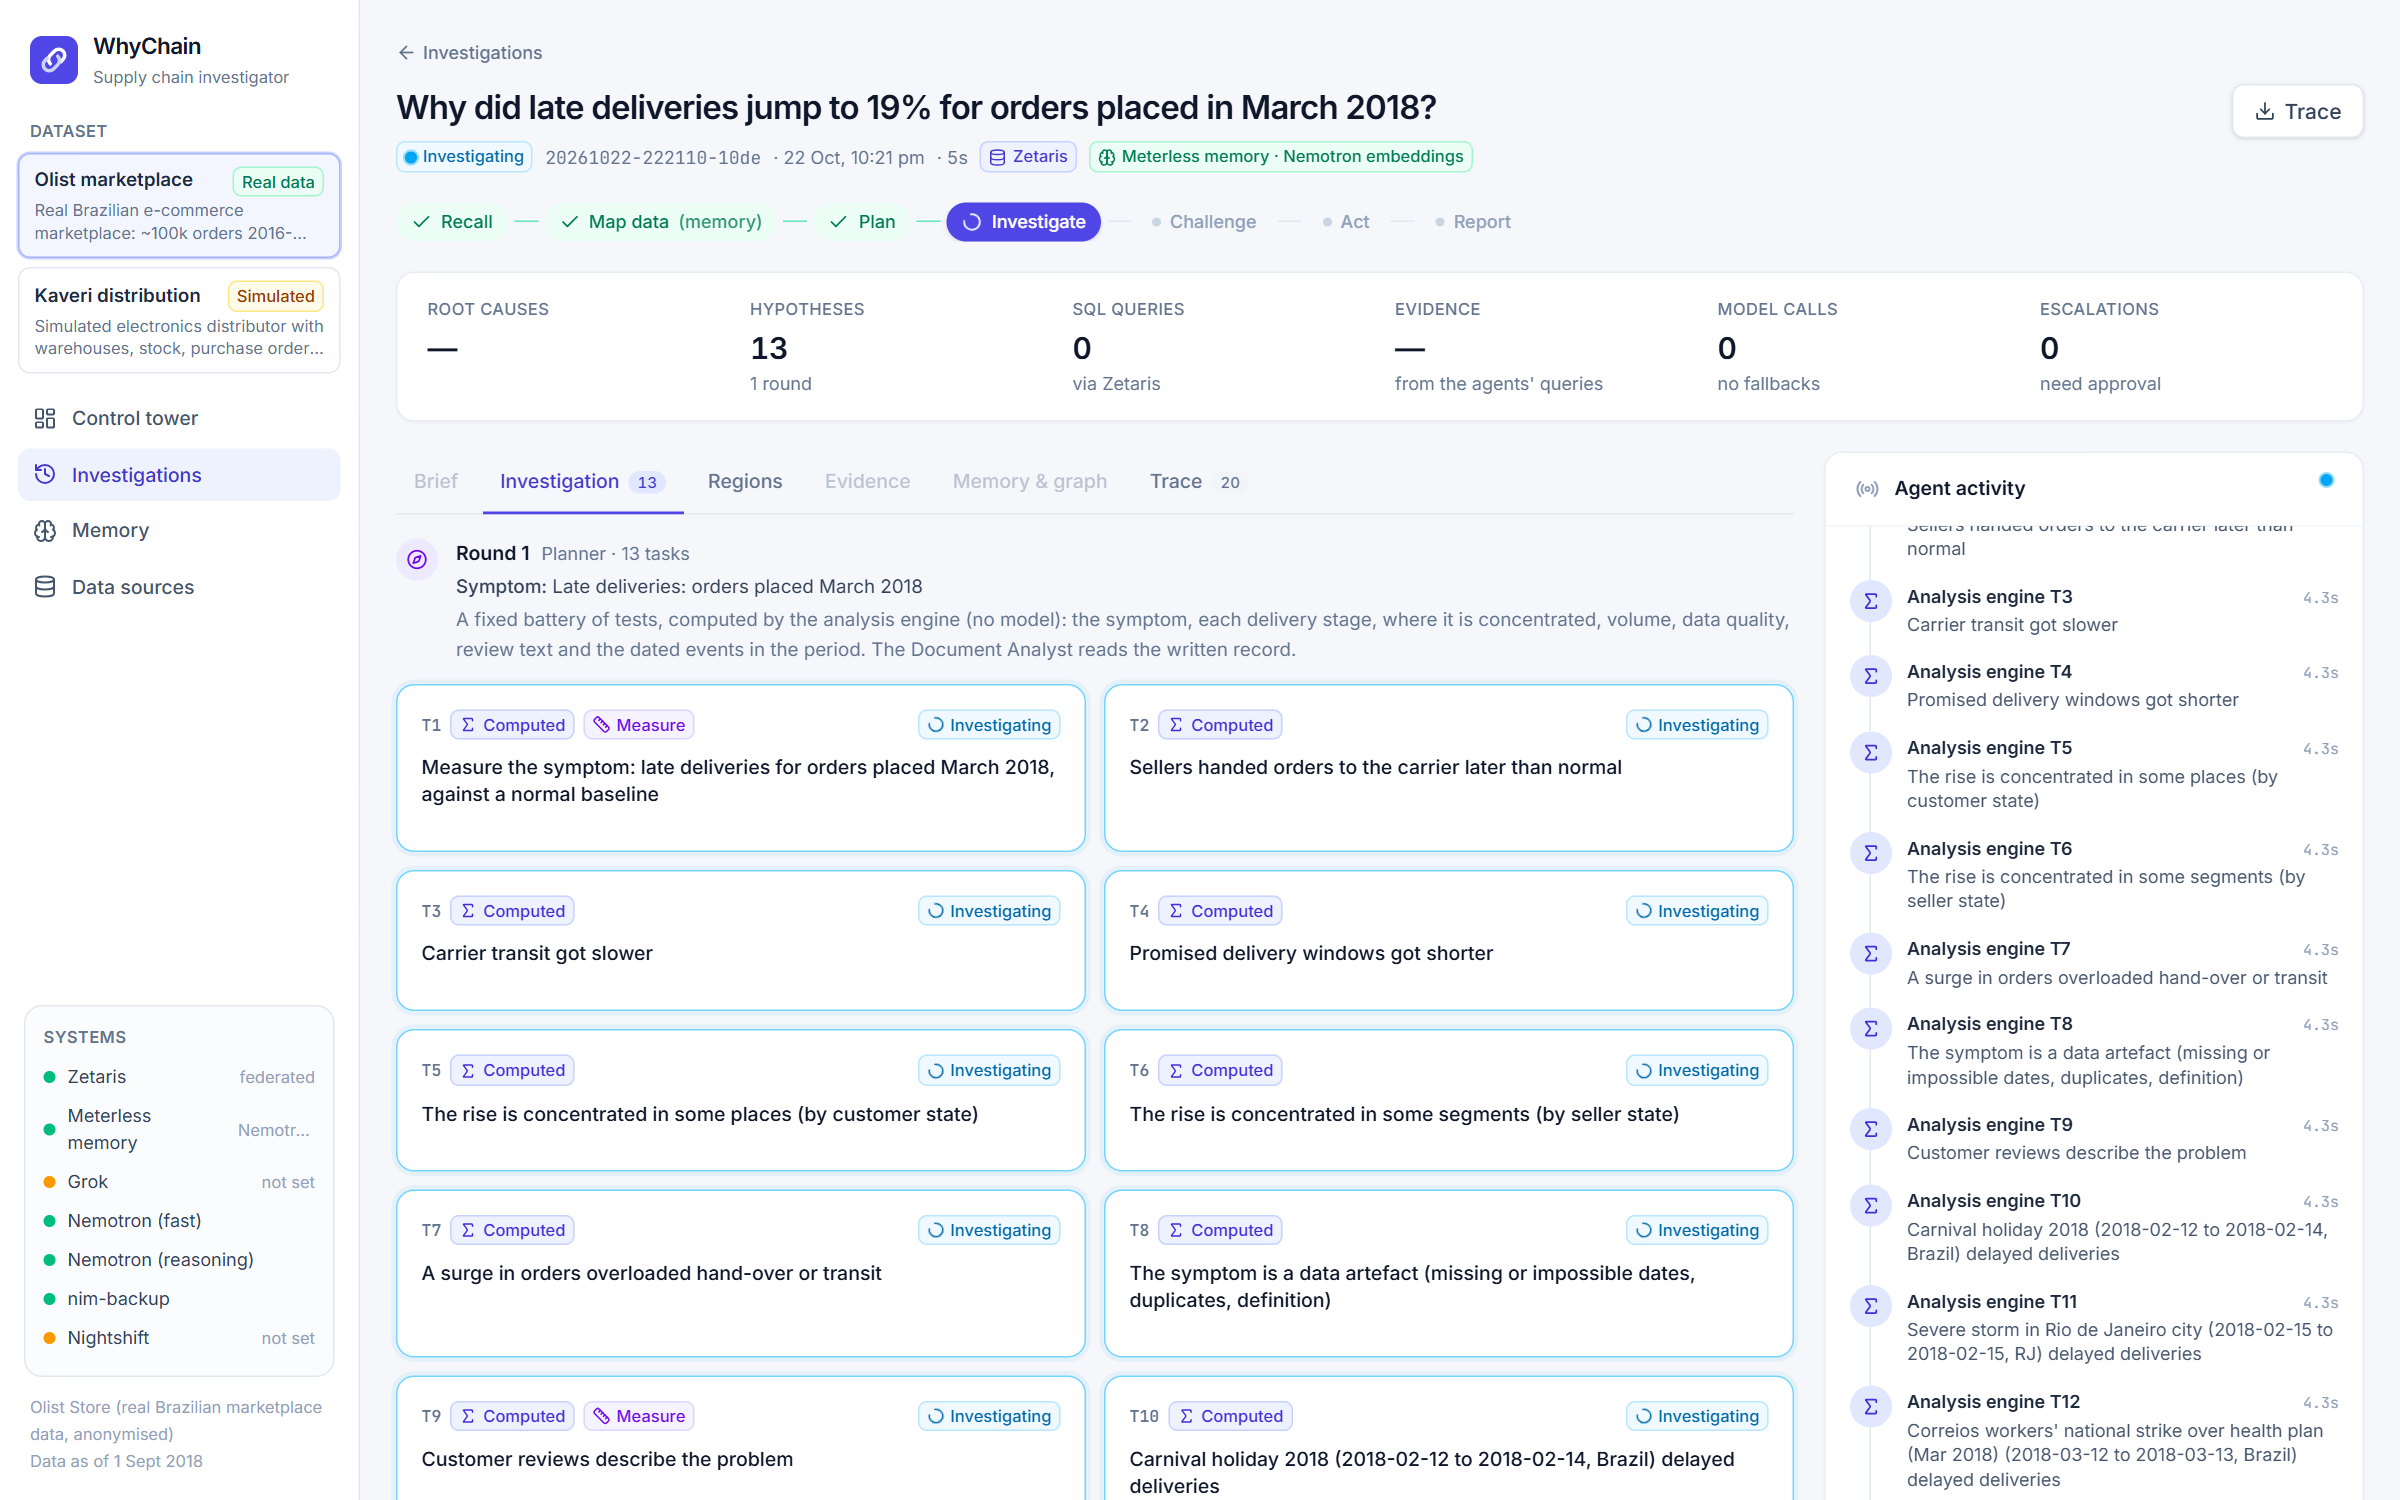
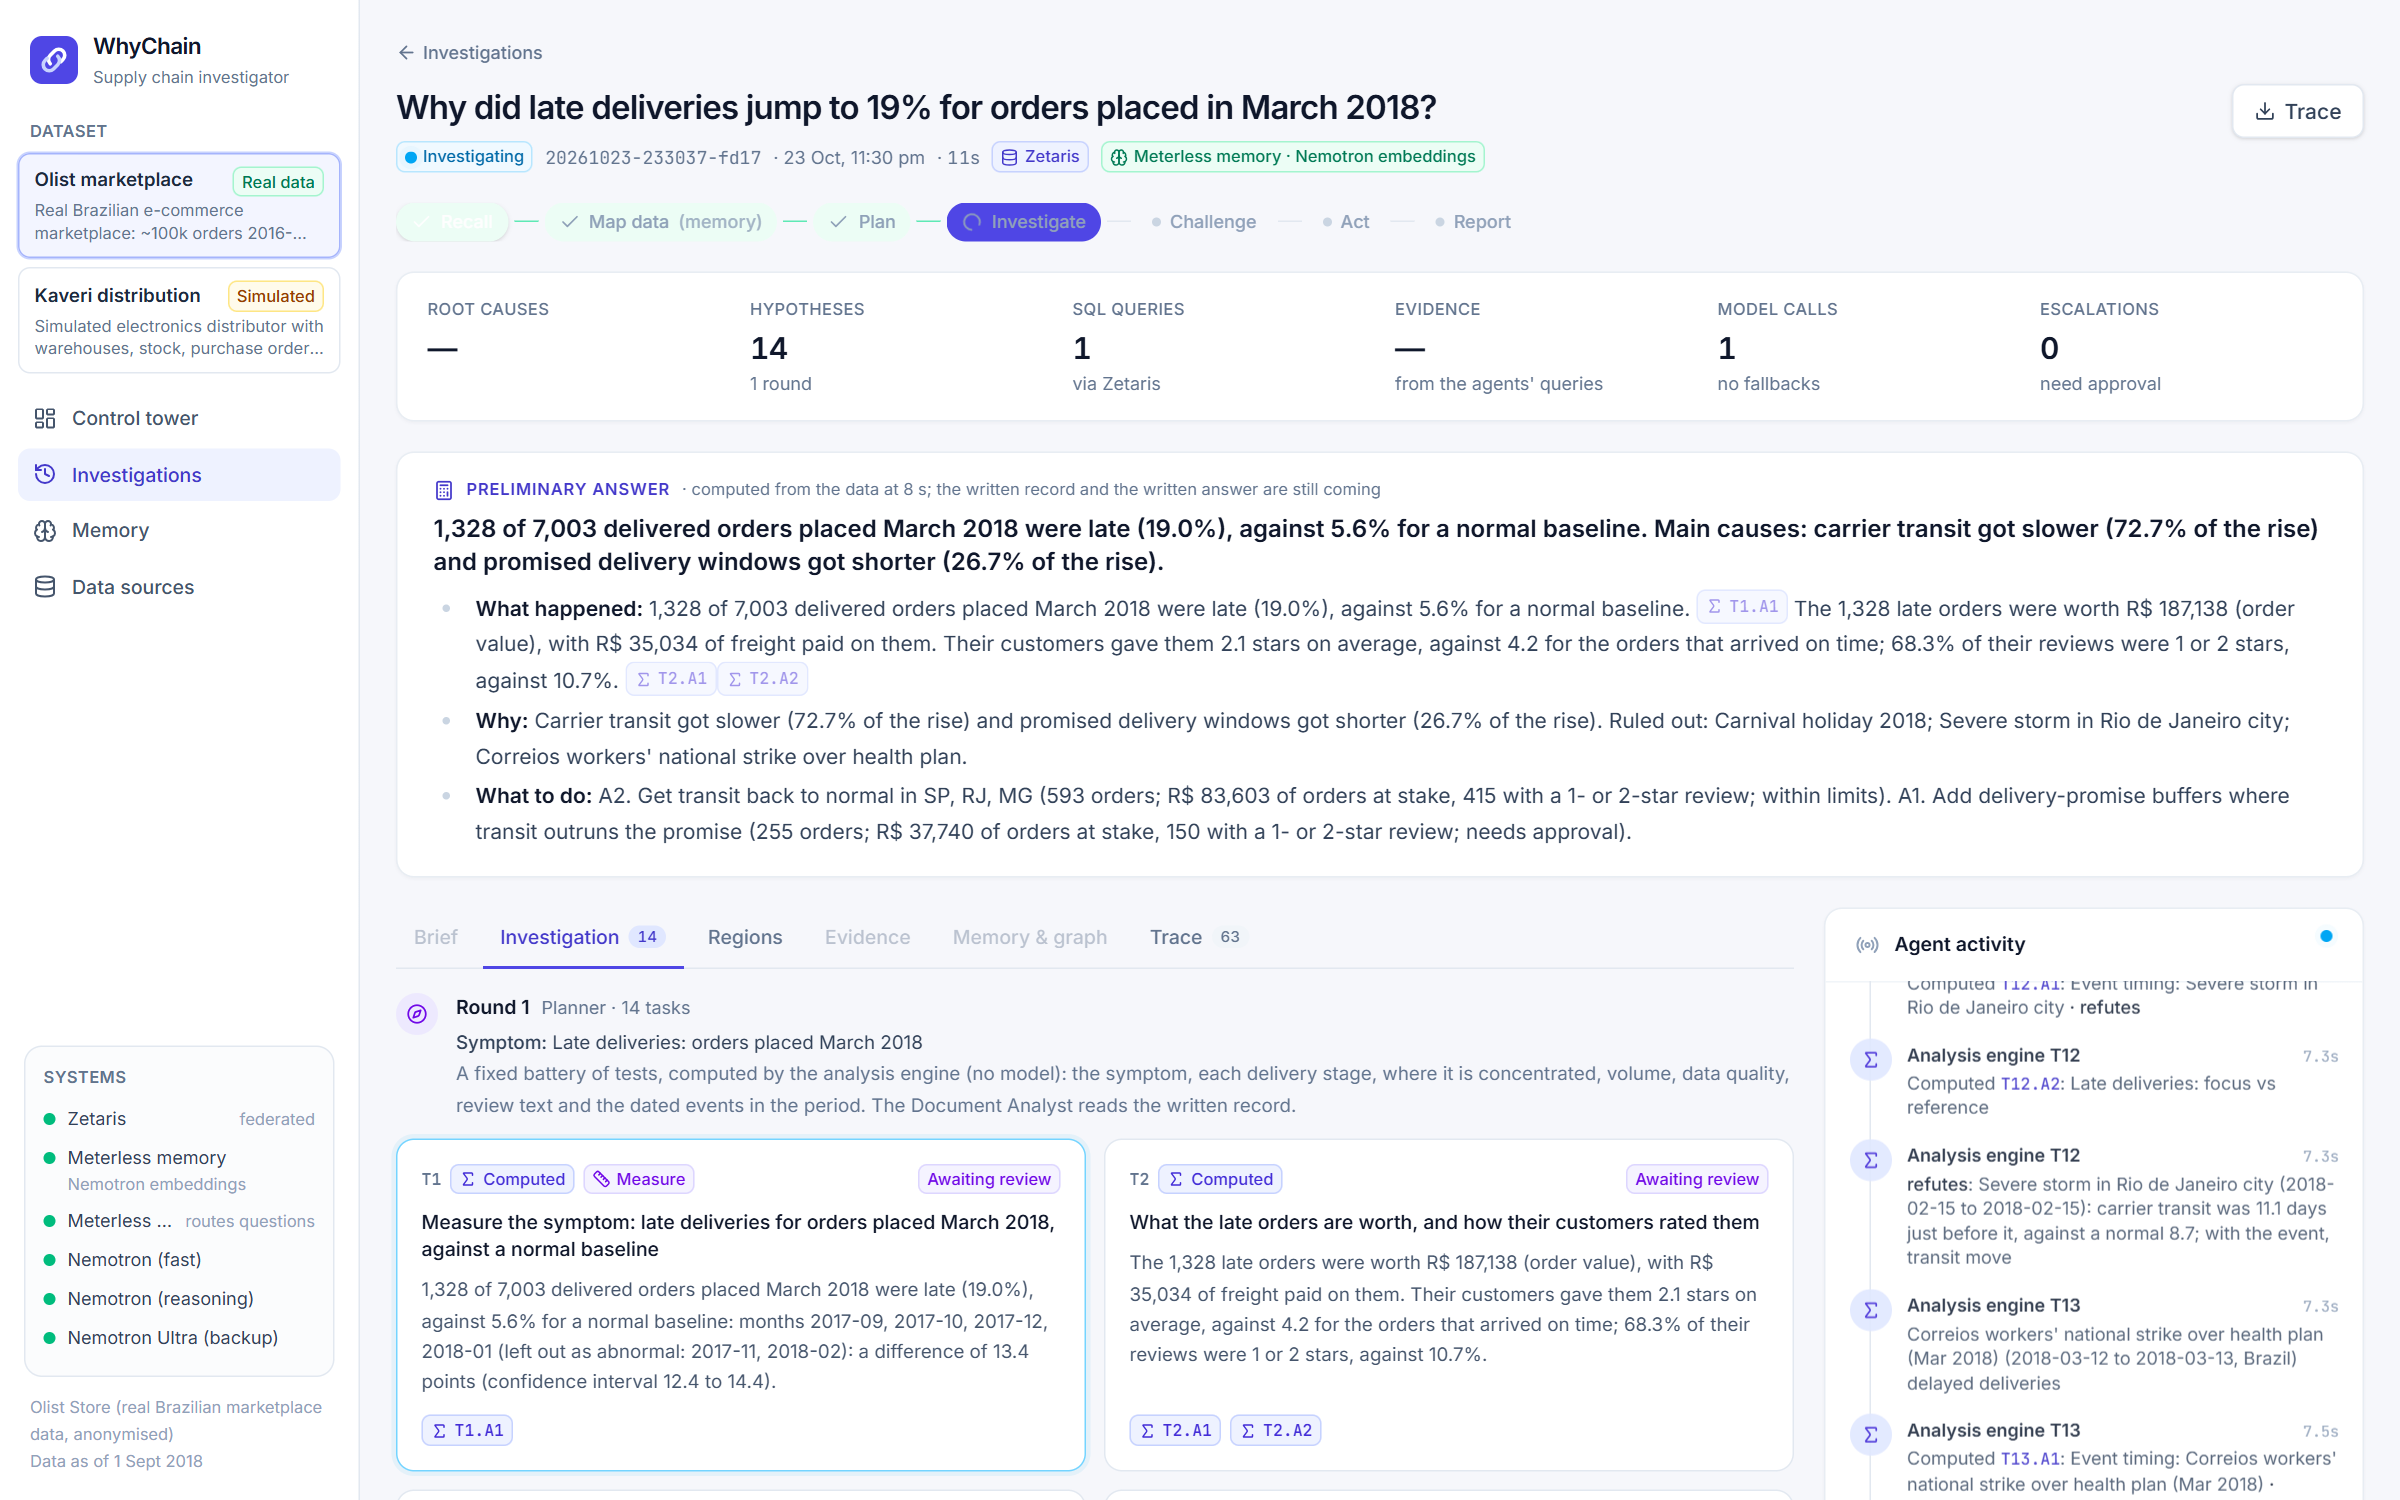
Screenshots from the code as submitted, on a fresh memory, through Zetaris
The preliminary answer (at 8 s), the brief with its summary in money, the why chain from the Meterless World Model,
Ask why next and the Rio de Janeiro drill-down, evidence with its federated SQL, memory with provenance, the Pune
transfer in the preliminary answer, the actions with their value at stake, and the deliverables. The README
gallery and the deck point at them.

diff --git a/docs/deck.md b/docs/deck.md
@@ -72,7 +72,7 @@ technologies, product visuals and future enhancements. 12 slides. Screenshots ar
   SQL. Nemotron 3.5 Super, with Nemotron 3 Ultra as the fallback.
 - Memory: Nemotron 3 Embed embeds every finding and recall query for H-MEM.
 - Risk & Action: templates sized from computed tables; the Optiagent optimizer for stock transfers.
-- Screenshot: `docs/img/investigation-live.png` (the Board streaming agents).
+- Screenshot: `docs/img/investigation-live.png` (the preliminary answer at 8 s, the agents still working).
 
 ## 7. Zetaris: one query across six systems
 
@@ -96,7 +96,7 @@ technologies, product visuals and future enhancements. 12 slides. Screenshots ar
 - Recall runs on NVIDIA Nemotron embeddings (one vendored file gained a provider hook; conformance 13/13 with it off
   and on). Reworded questions find the right past finding 5 times in 6, against 2 in 6 with the mock.
 - The World Model keeps each run's why chain (causes, shares, where, what explains them, what was ruled out); the
-  brief draws it. Screenshot: `docs/img/brief.png` (the chain under the summary).
+  brief draws it. Screenshot: `docs/img/why-chain.png`; one click deeper: `docs/img/rio-drilldown.png`.
 - Screenshot: `docs/img/memory.png` (the Memory page, or a run's Memory tab with the cause graph).
 
 ## 9. What's unique
@@ -116,7 +116,8 @@ technologies, product visuals and future enhancements. 12 slides. Screenshots ar
   (KH2, a red herring) and led to a rule change. 4/4 still-held-out questions pass in the final pass.
 - Reproducible: every confirmed cause and its share match the previous final pass; the only changed numbers are
   deliberate fixes (listed in the README).
-- Cost: 6 to 9 model calls and 38 s to 4 minutes per question (the earlier pure-agent design used 50 to 70 calls).
+- Speed and cost: a preliminary answer in a median 3.5 s; the full brief in 22 s to 2.5 minutes; 5 to 9 model calls per
+  question (the earlier pure-agent design used 50 to 70 calls).
 
 ## 11. The prescriptive loop (Kaveri)
 
@@ -124,7 +125,8 @@ technologies, product visuals and future enhancements. 12 slides. Screenshots ar
 - Fix: a stock transfer from Mumbai plus air freight, proven optimal, protecting 62 orders for INR 133,590.
 - A manager approves; the Action Executor prepares the deliverables, for example a per-SKU transfer order and a
   draft email to the supplier (it is an agent, so what it prepares varies; it takes two to three minutes).
-- Screenshots: `docs/img/kaveri-transfer.png` (the actions), `docs/img/deliverables.png` (after approval).
+- Screenshots: `docs/img/kaveri-preliminary.png` (the transfer in the preliminary answer), `docs/img/kaveri-transfer.png`
+  (the actions), `docs/img/deliverables.png` (after approval).
 
 ## 12. What's next
 

diff --git a/README.md b/README.md
@@ -14,11 +14,13 @@ WhyChain is for operations and fulfilment managers who see a problem on a dashbo
 
 On real Olist data, orders placed in March 2018 were 19.0% late against a normal 5.6%. Carrier transit explains 72.7% of the rise and shorter promises 26.7%. The postal strike that month is ruled out: lateness was already high before it began. The 1,328 late orders were worth R$ 187,138, and their customers gave them 2.1 stars on average against 4.2 for the on-time ones. Each action says how much of that it protects: getting transit back to normal in SP, RJ and MG covers 593 of those orders, R$ 83,603 of them. A preliminary answer computed from the data appears within seconds (median 3.5 s in the final pass); the written record and the written answer follow. In the final test pass, at one commit with every query through Zetaris, it found the root cause in 18 of 18 questions, four of them held out (see [Results](#results)).
 
-| Control tower | A live investigation | The brief |
+| Control tower | A preliminary answer in seconds | The brief: in short, in money |
 |---|---|---|
 | ![Control tower](docs/img/control-tower.png) | ![Live investigation](docs/img/investigation-live.png) | ![Brief](docs/img/brief.png) |
 | **Every number opens its evidence and SQL** | **A proven-optimal fix, sized from the data** | **Memory with provenance** |
 | ![Evidence](docs/img/evidence.png) | ![Stock transfer](docs/img/kaveri-transfer.png) | ![Memory](docs/img/memory.png) |
+| **The why chain, from the Meterless World Model** | **Ask why next: one click deeper (Rio de Janeiro)** | **Memory with provenance** |
+| ![Why chain](docs/img/why-chain.png) | ![Rio drill-down](docs/img/rio-drilldown.png) | ![Memory page](docs/img/memory-page.png) |
 
 ### See it in five minutes
 
